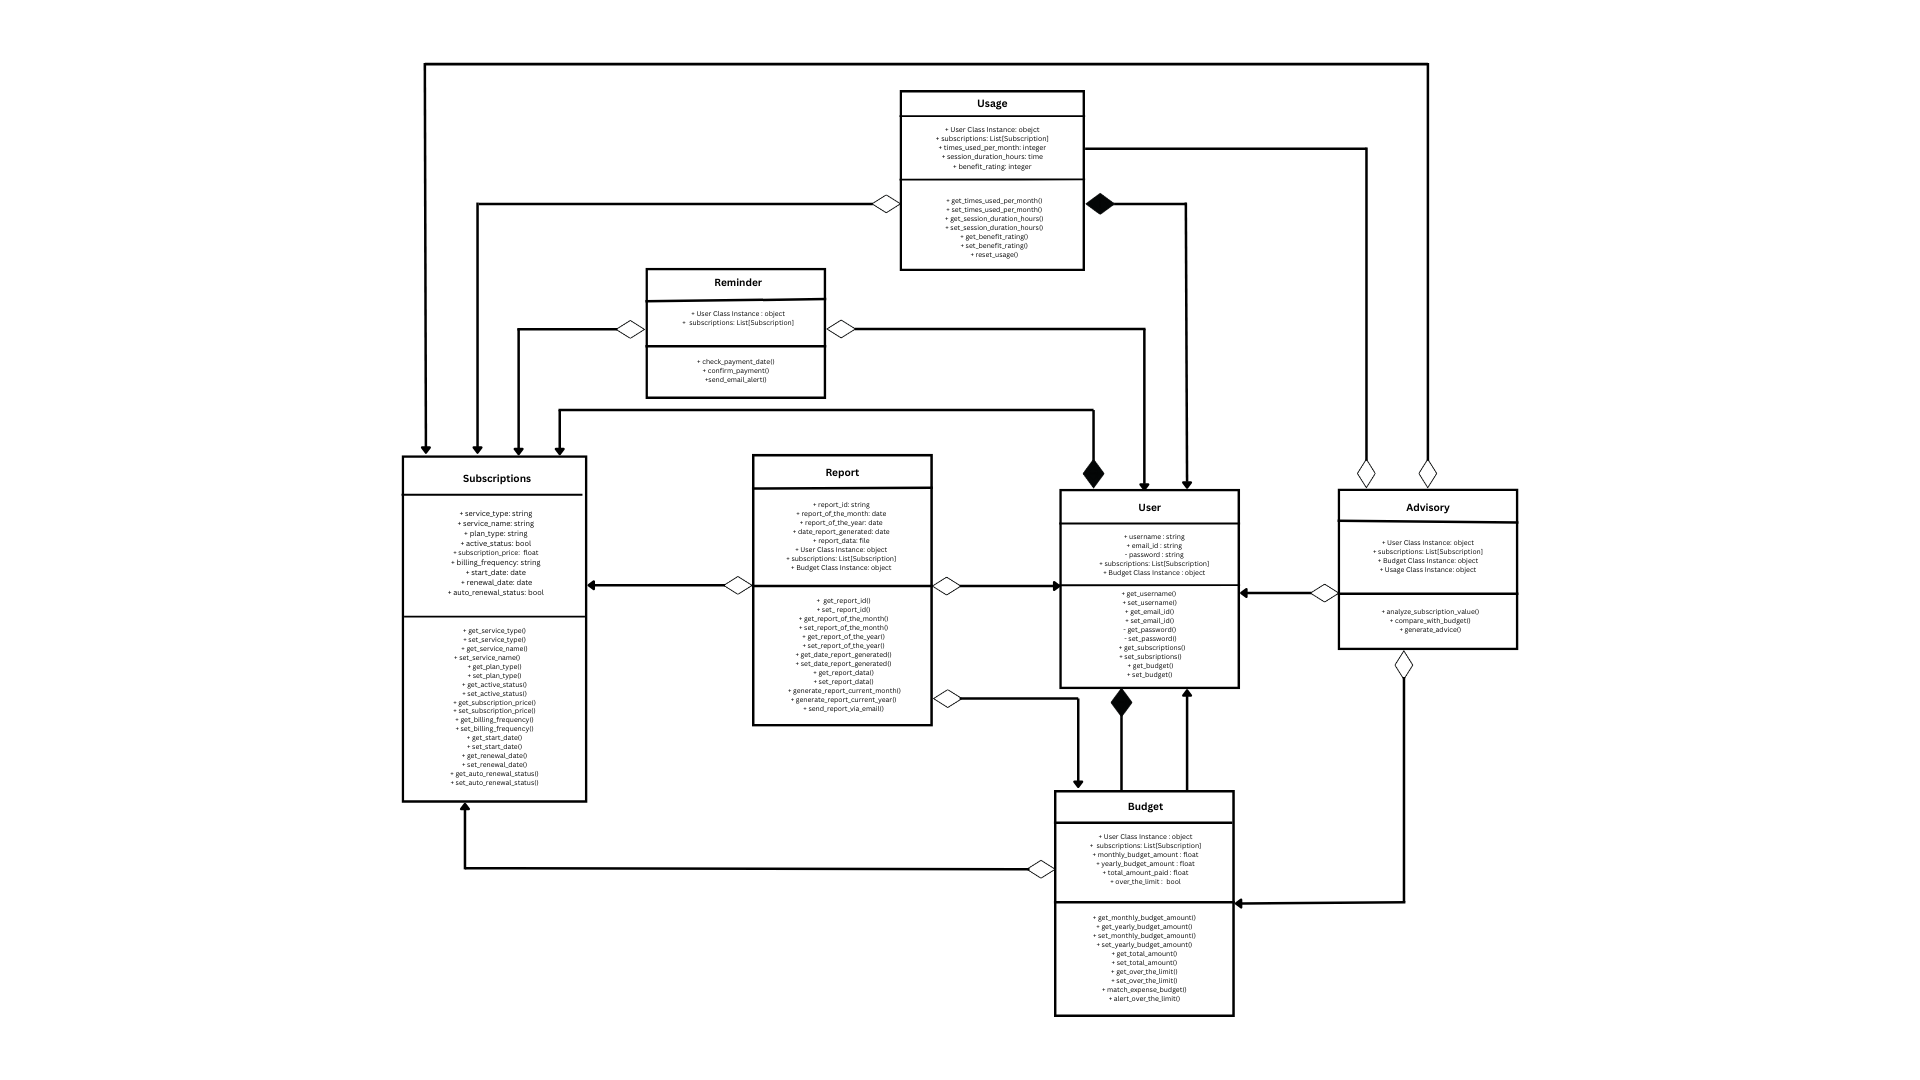
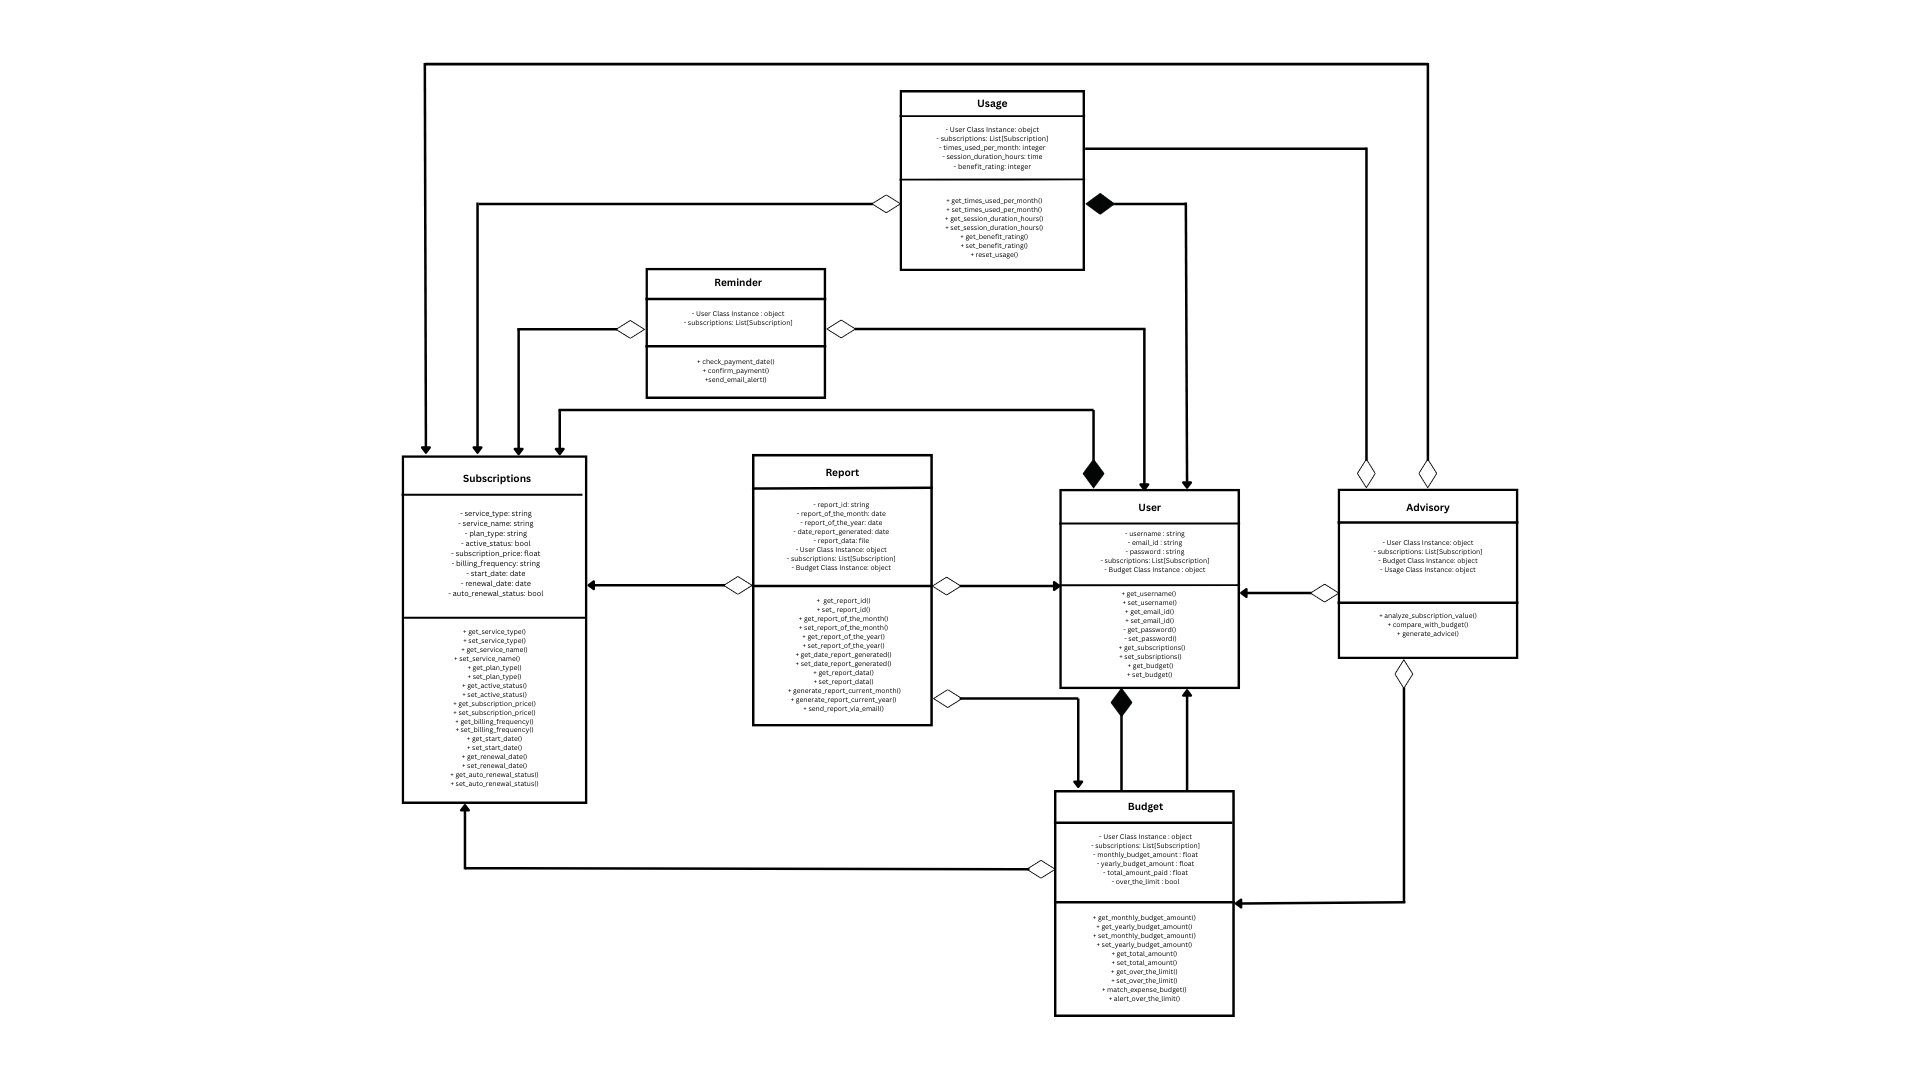
Completed adding attributes and methods to User Class and Subscription Class. Validation is pending for both

diff --git a/models/subscription.py b/models/subscription.py
@@ -1,0 +1,111 @@
+class Subscription:
+    def __init__(self, service_type, service_name, plan_type, active_status, subscription_price, billing_frequency, start_date, renewal_date, auto_renewal_status):
+        self.service_type = service_type
+        self.service_name = service_name
+        self.plan_type = plan_type
+        self.active_status = active_status
+        self.subscription_price = subscription_price
+        self.billing_frequency = billing_frequency
+        self.start_date = start_date
+        self.renewal_date = renewal_date
+        self.auto_renewal_status = auto_renewal_status
+        
+    @property
+    def service_type(self):
+        return self._service_type
+
+    @service_type.setter
+    def service_type(self, service_type):
+        if not service_type:
+            raise ValueError("Service type cannot be empty")
+        else:
+            self._service_type = service_type
+            
+    @property
+    def service_name(self):
+        return self._service_name
+    
+    @service_name.setter
+    def service_name(self, service_name):
+        if not service_name:
+            raise ValueError("Service name cannot be empty")
+        else:
+            self._service_name = service_name
+            
+    @property
+    def plan_type(self):
+        return self._plan_type
+    
+    @plan_type.setter
+    def plan_type(self, plan_type):
+        if not plan_type:
+            raise ValueError("Plan type cannot be empty")
+        else:
+            self._plan_type = plan_type
+    
+    @property
+    def active_status(self):
+        return self._active_status
+    
+    @active_status.setter
+    def active_status(self, active_status):
+        if not active_status:
+            raise ValueError("Active status cannot be empty")
+        else:
+            self._active_status = active_status
+            
+    @property
+    def subscription_price(self):
+        return self._subscription_price
+    
+    @subscription_price.setter
+    def subscription_price(self, subscription_price):
+        if subscription_price is None or isinstance(subscription_price, str):
+            raise ValueError("Subscription price must be a number")
+        else:
+            self._subscription_price = subscription_price
+            
+    @property
+    def billing_frequency(self):
+        return self._billing_frequency
+    
+    @billing_frequency.setter
+    def billing_frequency(self, billing_frequency):
+        if not billing_frequency:
+            raise ValueError("Billing frequency cannot be empty")
+        else:
+            self._billing_frequency = billing_frequency
+            
+    @property
+    def start_date(self):
+        return self._start_date
+    
+    @start_date.setter
+    def start_date(self, start_date):
+        if not start_date:
+            raise ValueError("Start date cannot be empty")
+        else:
+            self._start_date = start_date
+            
+    @property
+    def renewal_date(self):
+        return self._renewal_date
+    
+    @renewal_date.setter
+    def renewal_date(self, renewal_date):
+        if not renewal_date:
+            raise ValueError("Renewal date cannot be empty")
+        else:
+            self._renewal_date = renewal_date
+            
+    @property
+    def auto_renewal_status(self):
+        return self._auto_renewal_status
+    
+    @auto_renewal_status.setter
+    def auto_renewal_status(self, auto_renewal_status):
+        if not auto_renewal_status:
+            raise ValueError("Auto renewal status cannot be empty")
+        else:
+            self._auto_renewal_status = auto_renewal_status
+            

diff --git a/models/user.py b/models/user.py
@@ -1,0 +1,72 @@
+from subscription import Subscription
+from budget import Budget
+import re
+
+class User:
+    def __init__(self, username, email_id, password):
+        self.username = username
+        self.email_id = email_id
+        self.password = password
+        self._subscription_list = []
+        self._budget = None
+        
+    @property
+    def username(self):
+        return self._username
+    
+    @username.setter
+    def username(self, username):
+        correct_pattern = r"^[A-Za-z]+$"
+        if not username:
+            raise ValueError("Username cannot be empty")
+        if re.match(correct_pattern, username):
+            self._username = username
+        else:
+            raise ValueError("Username can contain only alphabets")
+    @property
+    def email_id(self):
+        return self._email_id
+    
+    @email_id.setter
+    def email_id(self, email_id):
+        correct_pattern = r"^[A-Za-z0-9\.]+@[A-Za-z]+\.[A-Za-z]+"
+        if not email_id:
+            raise ValueError("Email ID cannot be empty")
+        if re.match(correct_pattern, email_id):
+            self._email_id = email_id
+        else:
+            raise ValueError("Invalid Email ID")
+            
+    @property
+    def password(self):
+        return self._password
+    
+    @password.setter
+    def password(self, password):
+        if not password:
+            raise ValueError("Password cannot be empty")
+        elif len(password) < 8:
+            raise ValueError('Password must have atleast 8 characters')
+        else:
+            self._password = password
+            
+    @property
+    def subscription_list(self):
+        return self._subscription_list
+
+    def add_subscription(self, sub):
+        if isinstance(sub, Subscription):
+            self._subscription_list.append(sub)
+        else:
+            raise ValueError("Invalid Subscription")
+            
+    @property
+    def budget(self):
+        return self._budget
+    
+    @budget.setter
+    def budget(self, budget):
+        if isinstance(budget, Budget):
+            self._budget = budget
+        else:
+            raise ValueError('Invalid budget')

diff --git a/models/budget.py b/models/budget.py
@@ -1,0 +1,2 @@
+class Budget:
+    pass
